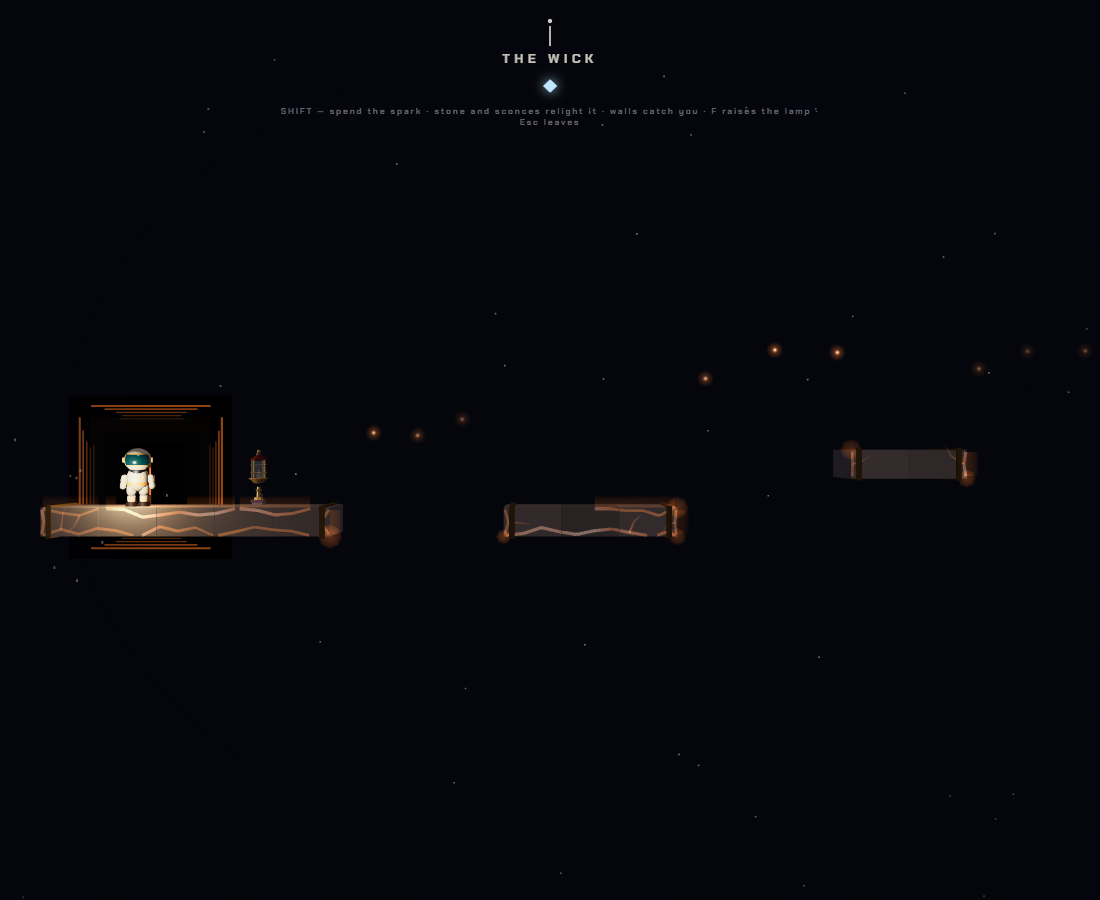
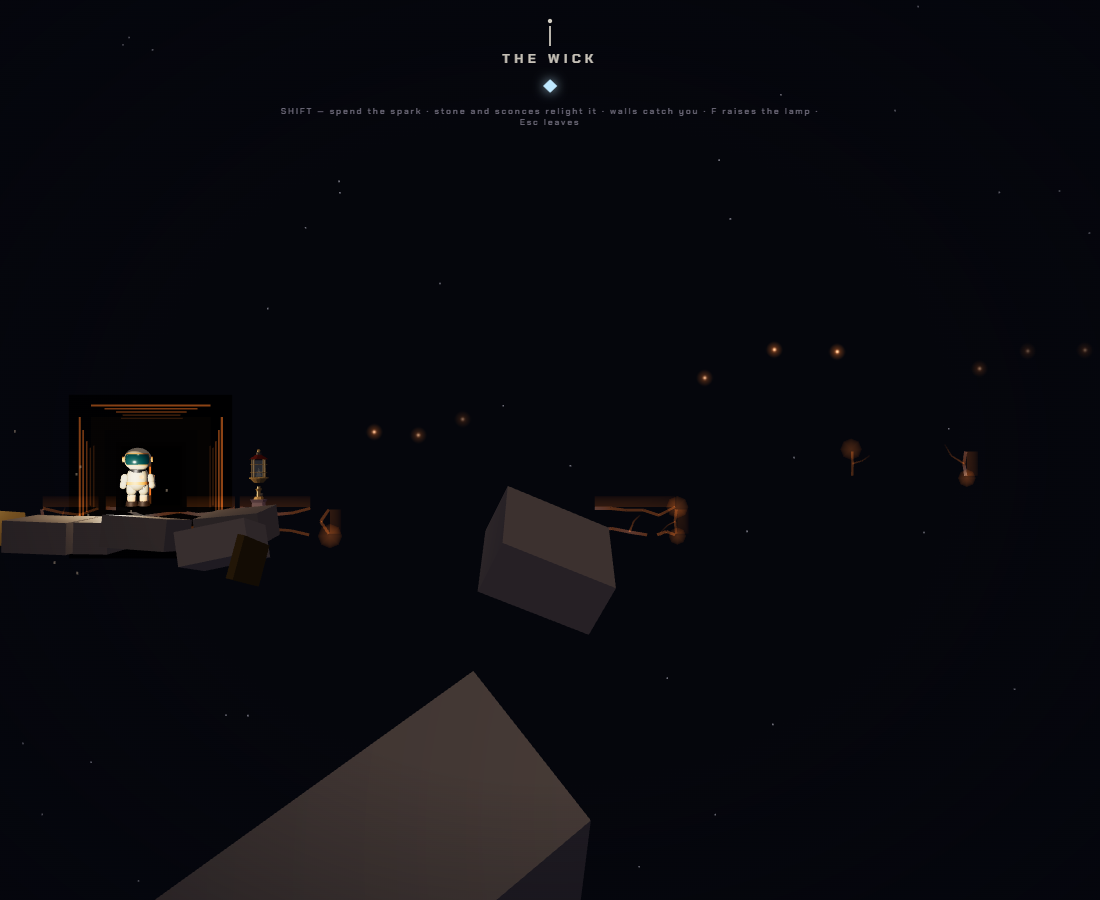
The world is exchanged: the mine falls out, the vault flies in
Grady's original picture, built: entering a stone, the mine sheds
around you in tumbling pieces as the iris closes — and on the cut, the
vault ARRIVES: every course of masonry flies in from past the camera,
tumbling, and locks into place outward from the tile you stand on,
control live the whole time. Leaving runs the exchange backward: the
slabs let go far-side-first and fall away into the dark beneath your
feet, and on the surface the same shed pieces fly home as the world
recompiles around you. The body never moves; the rooms trade places.

Instanced flight over the existing masonry matrices — a few hundred
matrix composes a frame while it runs, then it writes the finals once
and goes quiet. Collision never moves at all.

diff --git a/src/game/vault.ts b/src/game/vault.ts
@@ -359,6 +359,23 @@ export class VaultRun {
   /** THE LEAVE (SPEC-FOLD.md beat 9): one pulse of being taken back */
   private leaveT = 0;
   private leaveVia: 'door' | 'master' = 'door';
+  /**
+   * THE ASSEMBLY — the room is not entered, it ARRIVES: every course of
+   * masonry flies in from past the camera and locks in place, building
+   * outward from the tile you stand on. Leaving runs it backward: the
+   * slabs let go far-side-first and fall away into the dark. The body
+   * never moves; the world is exchanged around it.
+   */
+  private assembly: {
+    mesh: THREE.InstancedMesh;
+    n: number;
+    px: Float32Array; py: Float32Array; sy: Float32Array;
+    dx: Float32Array; dy: Float32Array; dz: Float32Array;
+    rx: Float32Array; rz: Float32Array;
+    delayIn: Float32Array; delayOut: Float32Array;
+  }[] = [];
+  private arriveT = 0;
+  private arriveDone = false;
   /** a snuffer's whole moth, indexed like shuttles; null for a plain bolt */
   private snufferParts: (MothParts | null)[] = [];
   /** last frame's place, so the moth can turn into where it is going */
@@ -619,6 +636,7 @@ export class VaultRun {
       && !(y > 0 && p.solid[(y - 1) * p.w + x])
       && !(y < p.h - 1 && p.solid[(y + 1) * p.w + x]);
     let k = 0;
+    const solidTiles: { px: number; py: number; sy: number }[] = [];
     for (let y = 0; y < p.h; y++) {
       for (let x = 0; x < p.w; x++) {
         const i = y * p.w + x;
@@ -626,8 +644,10 @@ export class VaultRun {
         if (oneCourse(x, y)) {
           m4.makeScale(1, 0.5, 1);
           m4.setPosition(x + 0.5, -(y + 0.5) + 0.25, 0);
+          solidTiles.push({ px: x + 0.5, py: -(y + 0.5) + 0.25, sy: 0.5 });
         } else {
           m4.makeTranslation(x + 0.5, -(y + 0.5), 0);
+          solidTiles.push({ px: x + 0.5, py: -(y + 0.5), sy: 1 });
         }
         inst.setMatrixAt(k, m4);
         // Band 1 is the lamp core, where the standard material still does
@@ -648,6 +668,7 @@ export class VaultRun {
     }
     inst.instanceMatrix.needsUpdate = true;
     this.scene.add(inst);
+    this.registerAssembly(inst, solidTiles);
 
     // the bronze cramps off the masonry sheet: a strap wrapped around each
     // end of every slab run, the fittings the guild bolted its floors with
@@ -670,6 +691,8 @@ export class VaultRun {
       }
       strap.instanceMatrix.needsUpdate = true;
       this.scene.add(strap);
+      this.registerAssembly(strap,
+        crampEnds.map(c => ({ px: c.x, py: -(c.y + 0.5) + 0.25, sy: 1 })));
     }
 
     // DRANK STONE (`=`). Colour alone said "a bit darker"; what it has to
@@ -2747,7 +2770,8 @@ export class VaultRun {
       }
     } else if (this.phase === 'leave') {
       this.leaveT += dt;
-      if (this.leaveT >= PULSE) this.closed = true;
+      this.driveAssembly(this.leaveT, -1);
+      if (this.leaveT >= PULSE * 1.5) this.closed = true;
     } else {
       this.invuln = Math.max(0, this.invuln - dt);
       this.step(dt, input);
@@ -2771,6 +2795,13 @@ export class VaultRun {
       if (x > f.x1) x = f.x0;
       f.mesh.position.x = x;
     }
+    // THE ASSEMBLY, arriving: the courses fly in and lock, outward from
+    // the entry, while the body already has the first slab underfoot
+    if (!this.arriveDone) {
+      this.arriveT += dt;
+      if (this.driveAssembly(this.arriveT, 1)) this.arriveDone = true;
+    }
+
     // the arrival closes behind you; the door brightens as you return —
     // and when you LEAVE by it, it opens all the way and takes you
     this.doorT = Math.min(1, this.doorT + dt / (2 * PULSE));
@@ -3216,12 +3247,83 @@ export class VaultRun {
     if (Math.hypot(this.px - (e.x + 0.5), this.py + e.y + 0.5) < 1.1) this.beginLeave('door');
   }
 
+  private registerAssembly(mesh: THREE.InstancedMesh, tiles: { px: number; py: number; sy: number }[]): void {
+    const e = this.p.entry;
+    const n = tiles.length;
+    const a = {
+      mesh, n,
+      px: new Float32Array(n), py: new Float32Array(n), sy: new Float32Array(n),
+      dx: new Float32Array(n), dy: new Float32Array(n), dz: new Float32Array(n),
+      rx: new Float32Array(n), rz: new Float32Array(n),
+      delayIn: new Float32Array(n), delayOut: new Float32Array(n),
+    };
+    const rnd = (i: number, m: number): number => {
+      const v = Math.sin(i * 127.1 + m * 311.7) * 43758.5453;
+      return (v - Math.floor(v)) * 2 - 1;
+    };
+    for (let i = 0; i < n; i++) {
+      a.px[i] = tiles[i].px; a.py[i] = tiles[i].py; a.sy[i] = tiles[i].sy;
+      a.dx[i] = rnd(i, 1) * 3;
+      a.dy[i] = rnd(i, 2) * 2.5;
+      a.dz[i] = 11 + Math.abs(rnd(i, 3)) * 9;      // from past the camera
+      a.rx[i] = rnd(i, 4) * 1.1;
+      a.rz[i] = rnd(i, 5) * 1.1;
+      // the room builds OUTWARD from the tile you stand on
+      a.delayIn[i] = Math.hypot(tiles[i].px - (e.x + 0.5), tiles[i].py + e.y + 0.5) * 0.042;
+    }
+    this.assembly.push(a);
+  }
+
+  /** drive every flying course; t counts up, dir +1 arrives, -1 lets go */
+  private driveAssembly(t: number, dir: 1 | -1): boolean {
+    const AD = 0.55;
+    const m4 = new THREE.Matrix4();
+    const q = new THREE.Quaternion();
+    const eu = new THREE.Euler();
+    const pos = new THREE.Vector3();
+    const scl = new THREE.Vector3();
+    let all = true;
+    for (const a of this.assembly) {
+      for (let i = 0; i < a.n; i++) {
+        const delay = dir > 0 ? a.delayIn[i] : a.delayOut[i];
+        const f = Math.max(0, Math.min(1, (t - delay) / AD));
+        if (f < 1) all = false;
+        // arrivals settle (heavy ease-out); departures ACCELERATE away
+        const k = dir > 0 ? 1 - Math.pow(1 - f, 3) : 1 - f * f;
+        const off = 1 - k;
+        eu.set(a.rx[i] * off * dir, 0, a.rz[i] * off * dir);
+        q.setFromEuler(eu);
+        pos.set(
+          a.px[i] + a.dx[i] * off,
+          a.py[i] + (dir > 0 ? a.dy[i] * off : -off * off * 9),
+          (dir > 0 ? a.dz[i] : a.dz[i] * 0.7) * off);
+        scl.set(1, a.sy[i], 1);
+        m4.compose(pos, q, scl);
+        a.mesh.setMatrixAt(i, m4);
+      }
+      a.mesh.instanceMatrix.needsUpdate = true;
+    }
+    return all;
+  }
+
   private beginLeave(via: 'door' | 'master'): void {
     this.phase = 'leave';
     this.leaveVia = via;
     this.leaveT = 0;
     this.vx = 0; this.vy = 0;
-    this.audio.duck(0.2, 1);
+    let maxD = 1;
+    for (const a of this.assembly) {
+      for (let i = 0; i < a.n; i++) {
+        maxD = Math.max(maxD, Math.hypot(a.px[i] - this.px, a.py[i] - this.py));
+      }
+    }
+    for (const a of this.assembly) {
+      for (let i = 0; i < a.n; i++) {
+        const d = Math.hypot(a.px[i] - this.px, a.py[i] - this.py);
+        a.delayOut[i] = (1 - d / maxD) * 0.7;    // the far side lets go first
+      }
+    }
+    this.audio.duck(0.2, 1.5);
   }
 
   abandon(): void { this.closed = true; }

diff --git a/src/fx/fold.ts b/src/fx/fold.ts
@@ -64,6 +64,30 @@ export function buildFoldThroat(g: GlyphDef, hue: number, interior = false): Fol
     group.add(halo);
   }
 
+  // THE MINE FALLS OUT OF THE WORLD: pieces of the dig face let go and
+  // tumble into the dark as the iris closes — and on the way out the same
+  // pieces fly home and lock, the world recompiling around you
+  const shedMat = !interior ? mk(new THREE.MeshBasicMaterial({
+    color: 0x4a3b2e, transparent: true, opacity: 0, depthTest: false, depthWrite: false,
+  })) : null;
+  const shed: { mesh: THREE.Mesh; x: number; y: number; ox: number; oy: number; r: number; ph: number }[] = [];
+  if (shedMat) {
+    for (let i = 0; i < 36; i++) {
+      const h1 = Math.sin(i * 12.9898) * 43758.5453; const r1 = h1 - Math.floor(h1);
+      const h2 = Math.sin(i * 78.233) * 12543.21; const r2 = h2 - Math.floor(h2);
+      const h3 = Math.sin(i * 39.425) * 26711.9; const r3 = h3 - Math.floor(h3);
+      const ang = r1 * Math.PI * 2;
+      const rad = 2.6 + r2 * 6.5;
+      const w = 0.55 + r3 * 0.7;
+      const d = new THREE.Mesh(gm(new THREE.PlaneGeometry(w, w * (0.5 + r1 * 0.5))), shedMat);
+      const x = Math.cos(ang) * rad, y = Math.sin(ang) * rad * 0.7;
+      d.position.set(x, y, 0);
+      d.renderOrder = ro - 1;
+      shed.push({ mesh: d, x, y, ox: Math.cos(ang) * 4, oy: -3 - r2 * 5, r: (r3 - 0.5) * 3.2, ph: r1 * 9 });
+      group.add(d);
+    }
+  }
+
   // the black behind the world
   const backMat = mk(new THREE.MeshBasicMaterial({
     color: 0x050308, transparent: true, opacity: 0, depthTest, depthWrite: false,
@@ -177,6 +201,18 @@ export function buildFoldThroat(g: GlyphDef, hue: number, interior = false): Fol
     const kk = Math.max(0, Math.min(1, k));
     if (irisMat) irisMat.opacity = settle(kk * 1.6) * 0.9;
     if (haloMat) haloMat.opacity = settle(kk * 1.6) * 0.5;
+    if (shedMat) {
+      // visible while the world is mid-exchange, gone at either end
+      shedMat.opacity = Math.sin(Math.min(1, kk * 1.25) * Math.PI) * 0.95;
+      for (const p2 of shed) {
+        const fall = settle(kk);
+        p2.mesh.position.set(
+          p2.x + p2.ox * fall,
+          p2.y + p2.oy * fall * fall,
+          0);
+        p2.mesh.rotation.z = p2.r * fall + Math.sin(time * 1.3 + p2.ph) * 0.05;
+      }
+    }
     backMat.opacity = Math.min(1, kk * 4) * 0.97;
     // the flare: born in the first sixth, gone by the third
     const fl = kk / 0.32;
